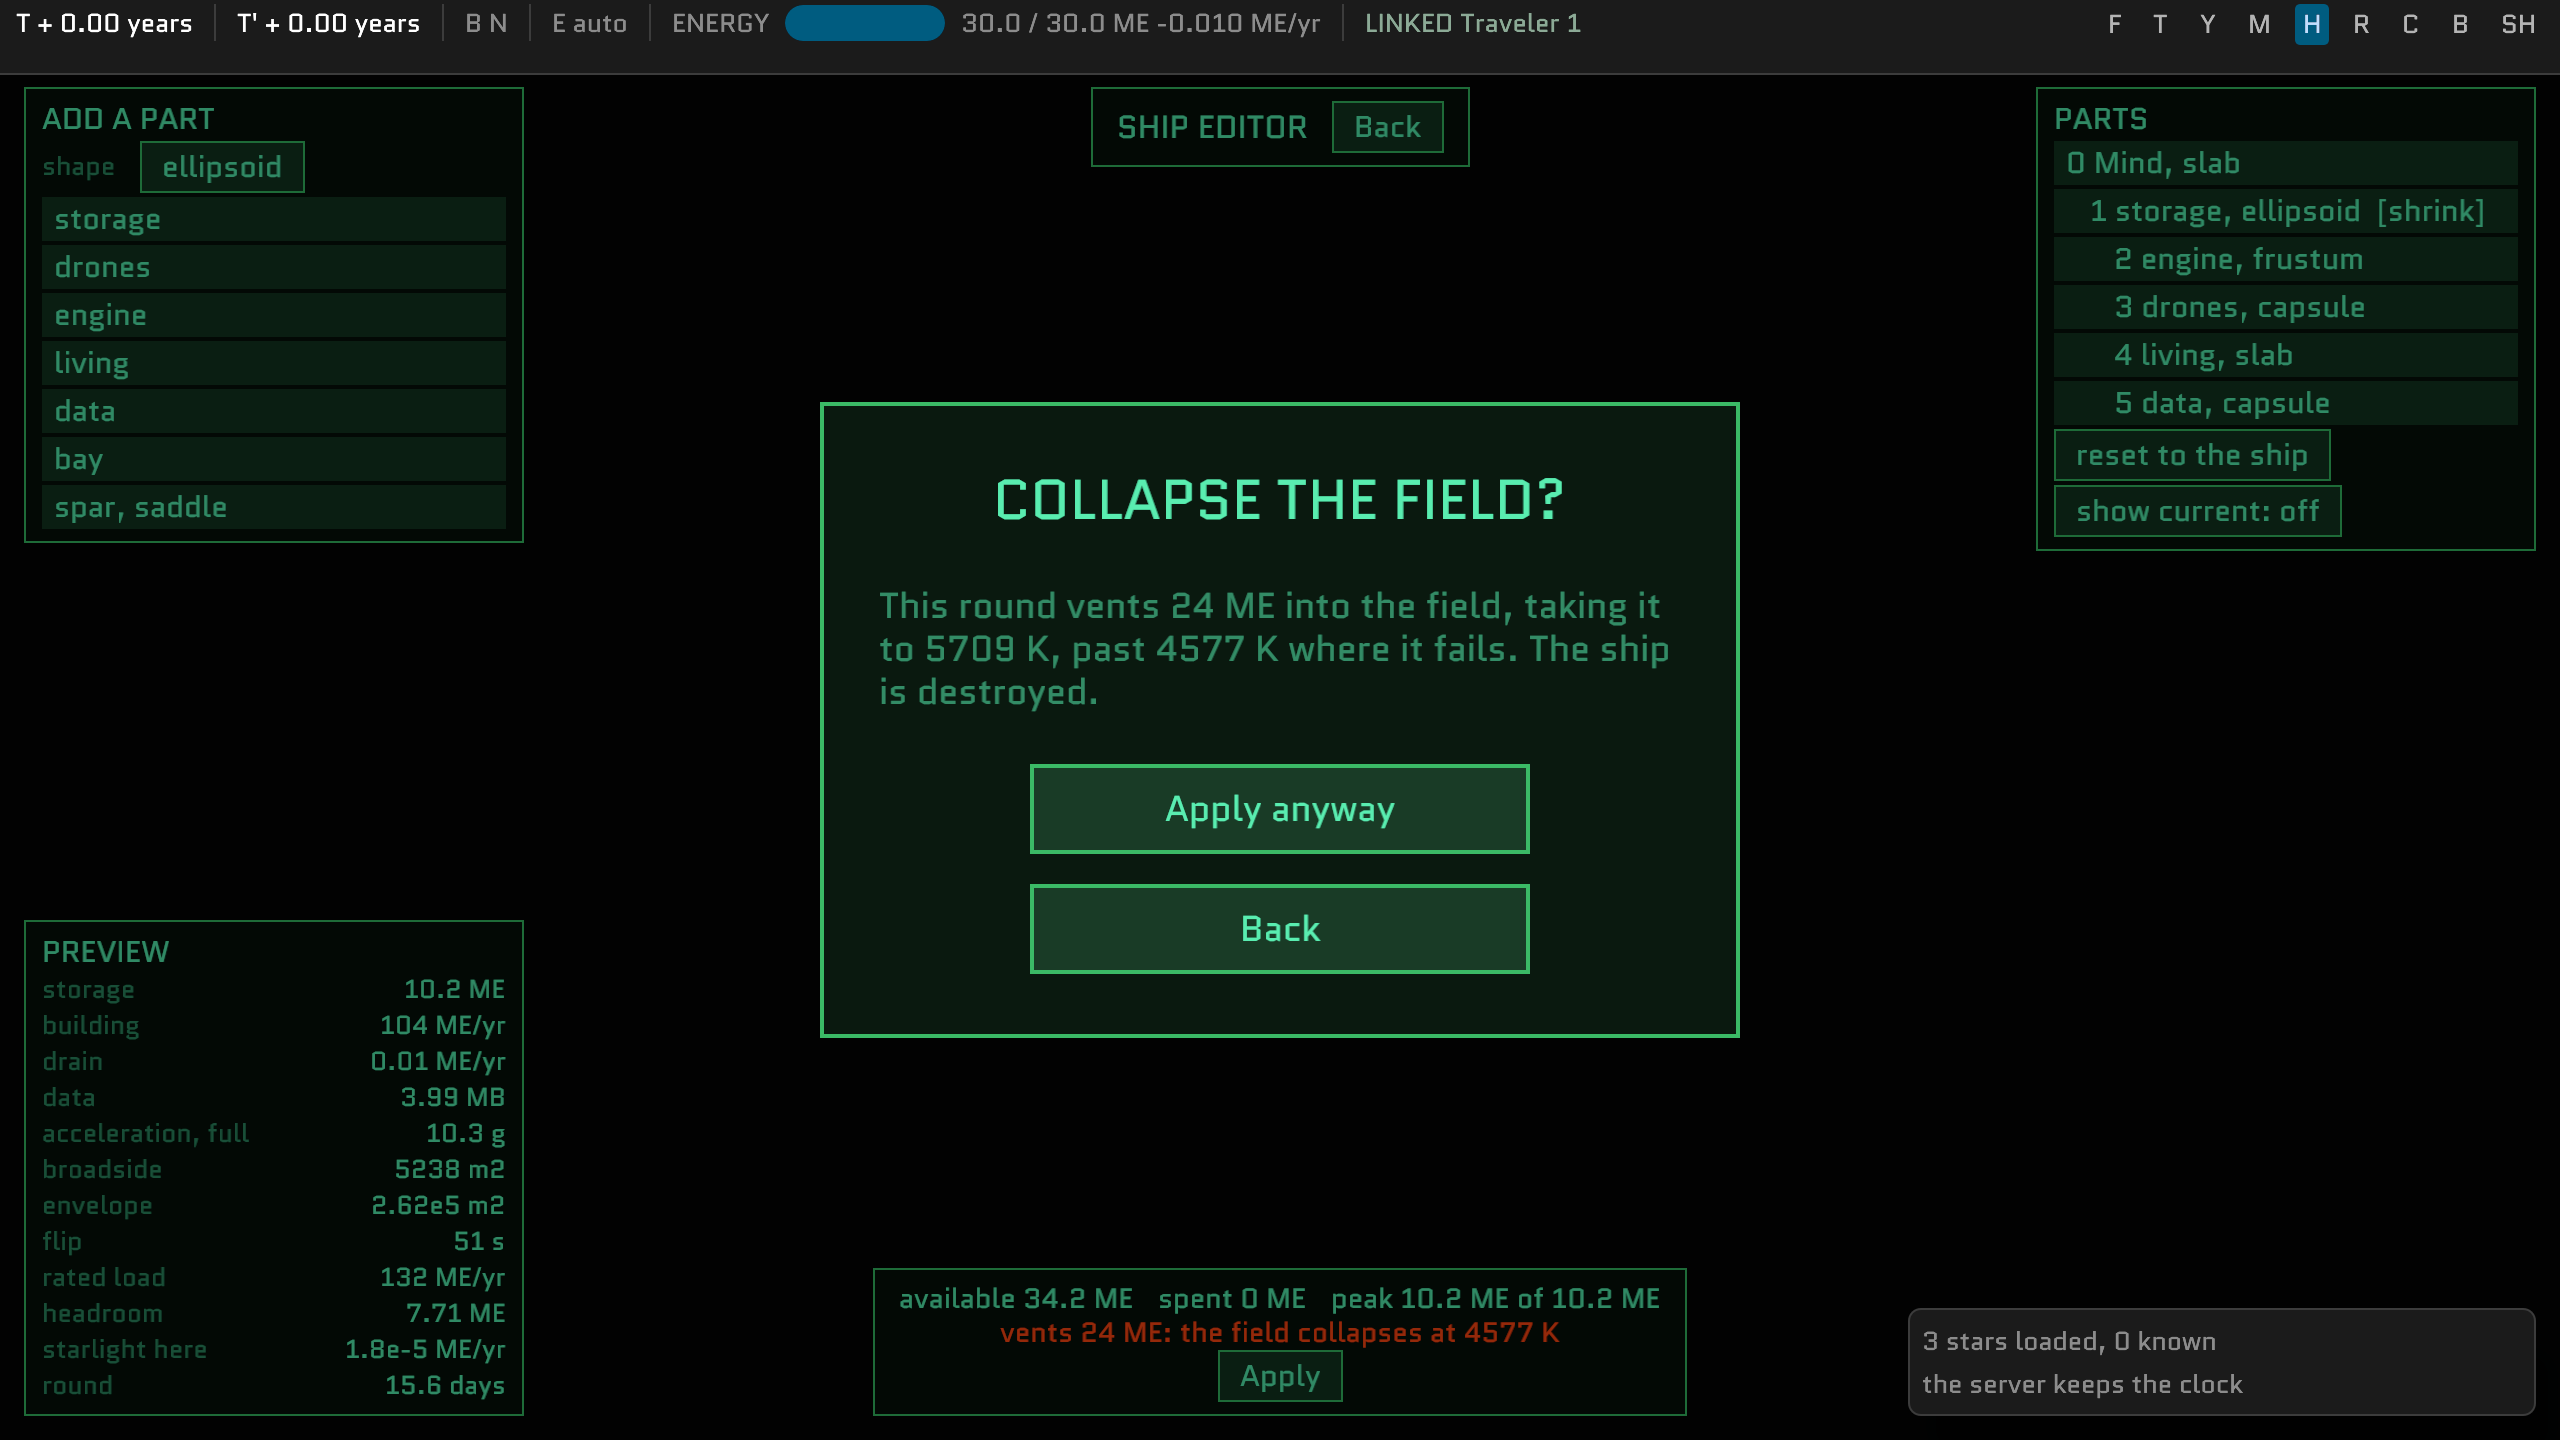
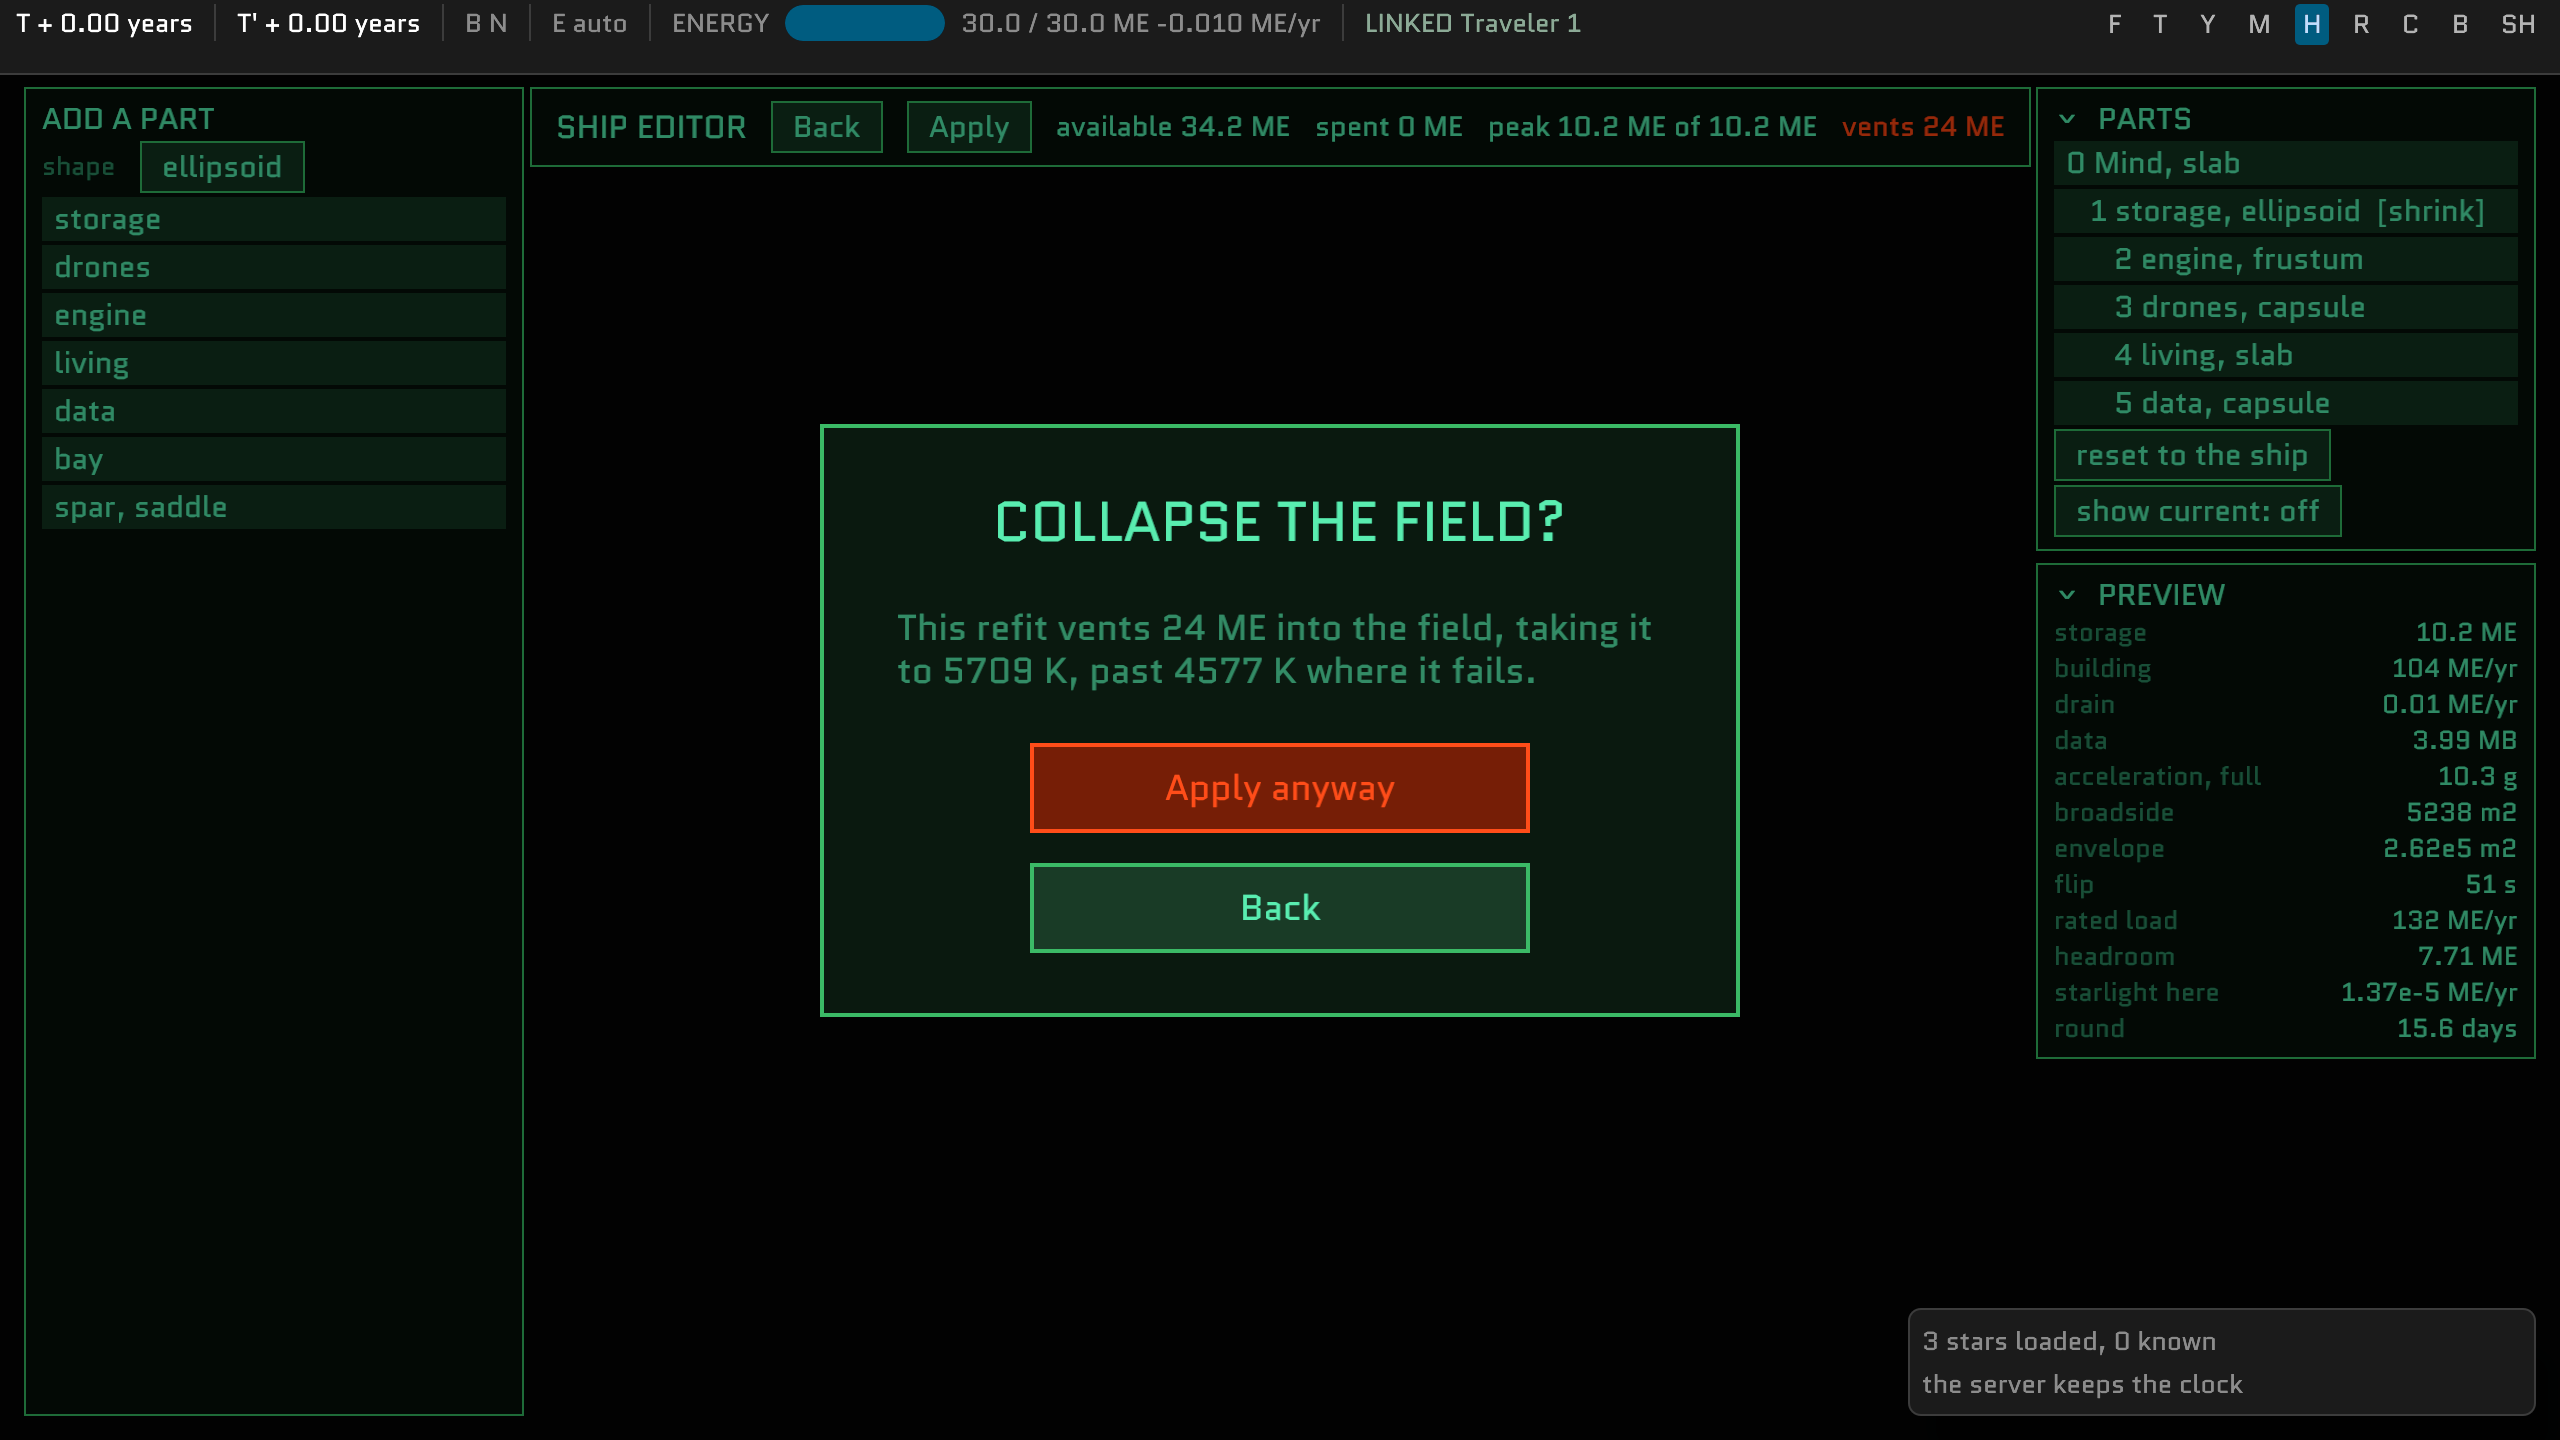
C4: "this refit"; docs and screenshots for the title-bar layout and folding

diff --git a/crates/lc-client/src/form_apply.rs b/crates/lc-client/src/form_apply.rs
@@ -223,12 +223,12 @@ fn ask(
     let module_j = game.0.ship.fitting().map_or(1.0, |f| f.balance().module_energy_j());
     let said = match previewed.0.as_ref().and_then(|p| Some((p.budget.as_ref().ok()?, p.heat?))) {
         Some((budget, heat)) => format!(
-            "This round vents {} ME into the field, taking it to {:.0} K, past {:.0} K where it fails.",
+            "This refit vents {} ME into the field, taking it to {:.0} K, past {:.0} K where it fails.",
             crate::draft::figure(budget.vented_j / module_j),
             heat.peak_k,
             heat.max_k,
         ),
-        None => "This round collapses the field.".into(),
+        None => "This refit collapses the field.".into(),
     };
     let mut menu = MenuUi::new(&mut commands, MenuTheme::VFD).panel_width(460.0).font(assets.load(crate::faces::UI_FILE)).warning(crate::ui::HAZARD);
     menu.confirm(Asking, "COLLAPSE THE FIELD?", &said, ("Apply anyway", Answer(true)), ("Back", Answer(false)));

diff --git a/lightcone/docs/29-ship-form.md b/lightcone/docs/29-ship-form.md
@@ -513,8 +513,8 @@ three phases, progress, and Cancel.
 
 ### Apply and the ledger
 
-- **Apply is in the editor's chrome**, an `em_ui` strip along the bottom of the view, and sends
-  `Order::Refit { target }` with the draft. It is disabled, saying why beside it, with no shard,
+- **Apply is on the editor's title bar**, after Back, and sends `Order::Refit { target }` with the
+  draft. It is disabled, saying why under it, with no shard,
   while an Apply awaits its answer, while a round runs, while the ship is under way, and when the
   draft is the ship. `ledger::gate` is that rule, tested without a window.
 - **A refusal is shown where Apply was pressed**, worded by `refit_panel::form_fault`, and in the
@@ -636,8 +636,10 @@ Apply asks once more when the vent would collapse the field.
   will leave. The budget is `ledger::Budget::of` on that plan, and a test holds the local plan equal
   to the one the shard makes of the same Apply. A draft storage cannot pay for has no plan, and the
   budget says how short it is instead.
-- **The strip over Apply** reads available, spent, the peak in storage against capacity, and the
-  vent as `vents 1.2 ME: field to 2950 K`, in the hazard color, and saying so, when it collapses.
+- **The title bar**, beside Apply, reads available, spent, the peak in storage against capacity,
+  and `vents 1.2 ME` when anything is vented, in the hazard color when it would collapse the field.
+  One bar, not a second strip at the bottom; the peak temperature is Apply's second question's to
+  say, and the ledger's.
 - **The peak temperature** walks the plan: the field starts at its heat before the round, a
   dismantling heats it by the 5% it loses spread over the step, and each vent lands as a burst at its
   step's end, which is where the heat peaks. Between them it relaxes toward what held it before. Heat
@@ -650,7 +652,7 @@ Apply asks once more when the vent would collapse the field.
   cannot pay for where it would hang floats at the pointer instead, since a part is sized against its
   parent; and anything else is refused with "storage cannot pay for it". `Start::allows` is the rule.
 - **Apply's second question** is an `em_ui` modal (`MenuUi::confirm`) naming the vent, the peak and
-  the temperature at which the field fails: **Apply anyway** or **Back**.
+  the temperature at which the field fails: **Apply anyway**, in the hazard color, or **Back**.
 - `--draft vent` shrinks the storage to a third, which spills a full store past collapse, and
   `--pull <k>` pulls the selected part's size handle out `k` times its length once the shard has
   stated the ship, so both the question and a handle at its limit can be photographed.
@@ -715,7 +717,9 @@ volume above the minimum.
 - **The preview**, a pure function of `Session` and `Ui`: capacities, acceleration, broadside shadow,
   envelope area, slew rate, the field's rated load and headroom, brightness at the ship's current
   distance from its star, and the round's duration. It is `preview::Preview::of`, in a panel at the
-  bottom of the left column under the palette. Choices the list leaves open:
+  right column under the selected part's detail; the left is the palette's alone. PARTS, the detail
+  and PREVIEW each fold to their heading on an arrow at its left, so a short window can keep what it
+  needs open (`--fold parts,detail,preview` for a shot). Choices the list leaves open:
   - Its geometry comes from the draft's grid, which takes tens of milliseconds and much longer in a
     debug build, so it is measured off the frame each time the draft changes, and the grid's figures
     hold their last values until the new one arrives. It is passed to `Preview::of` beside the two.
